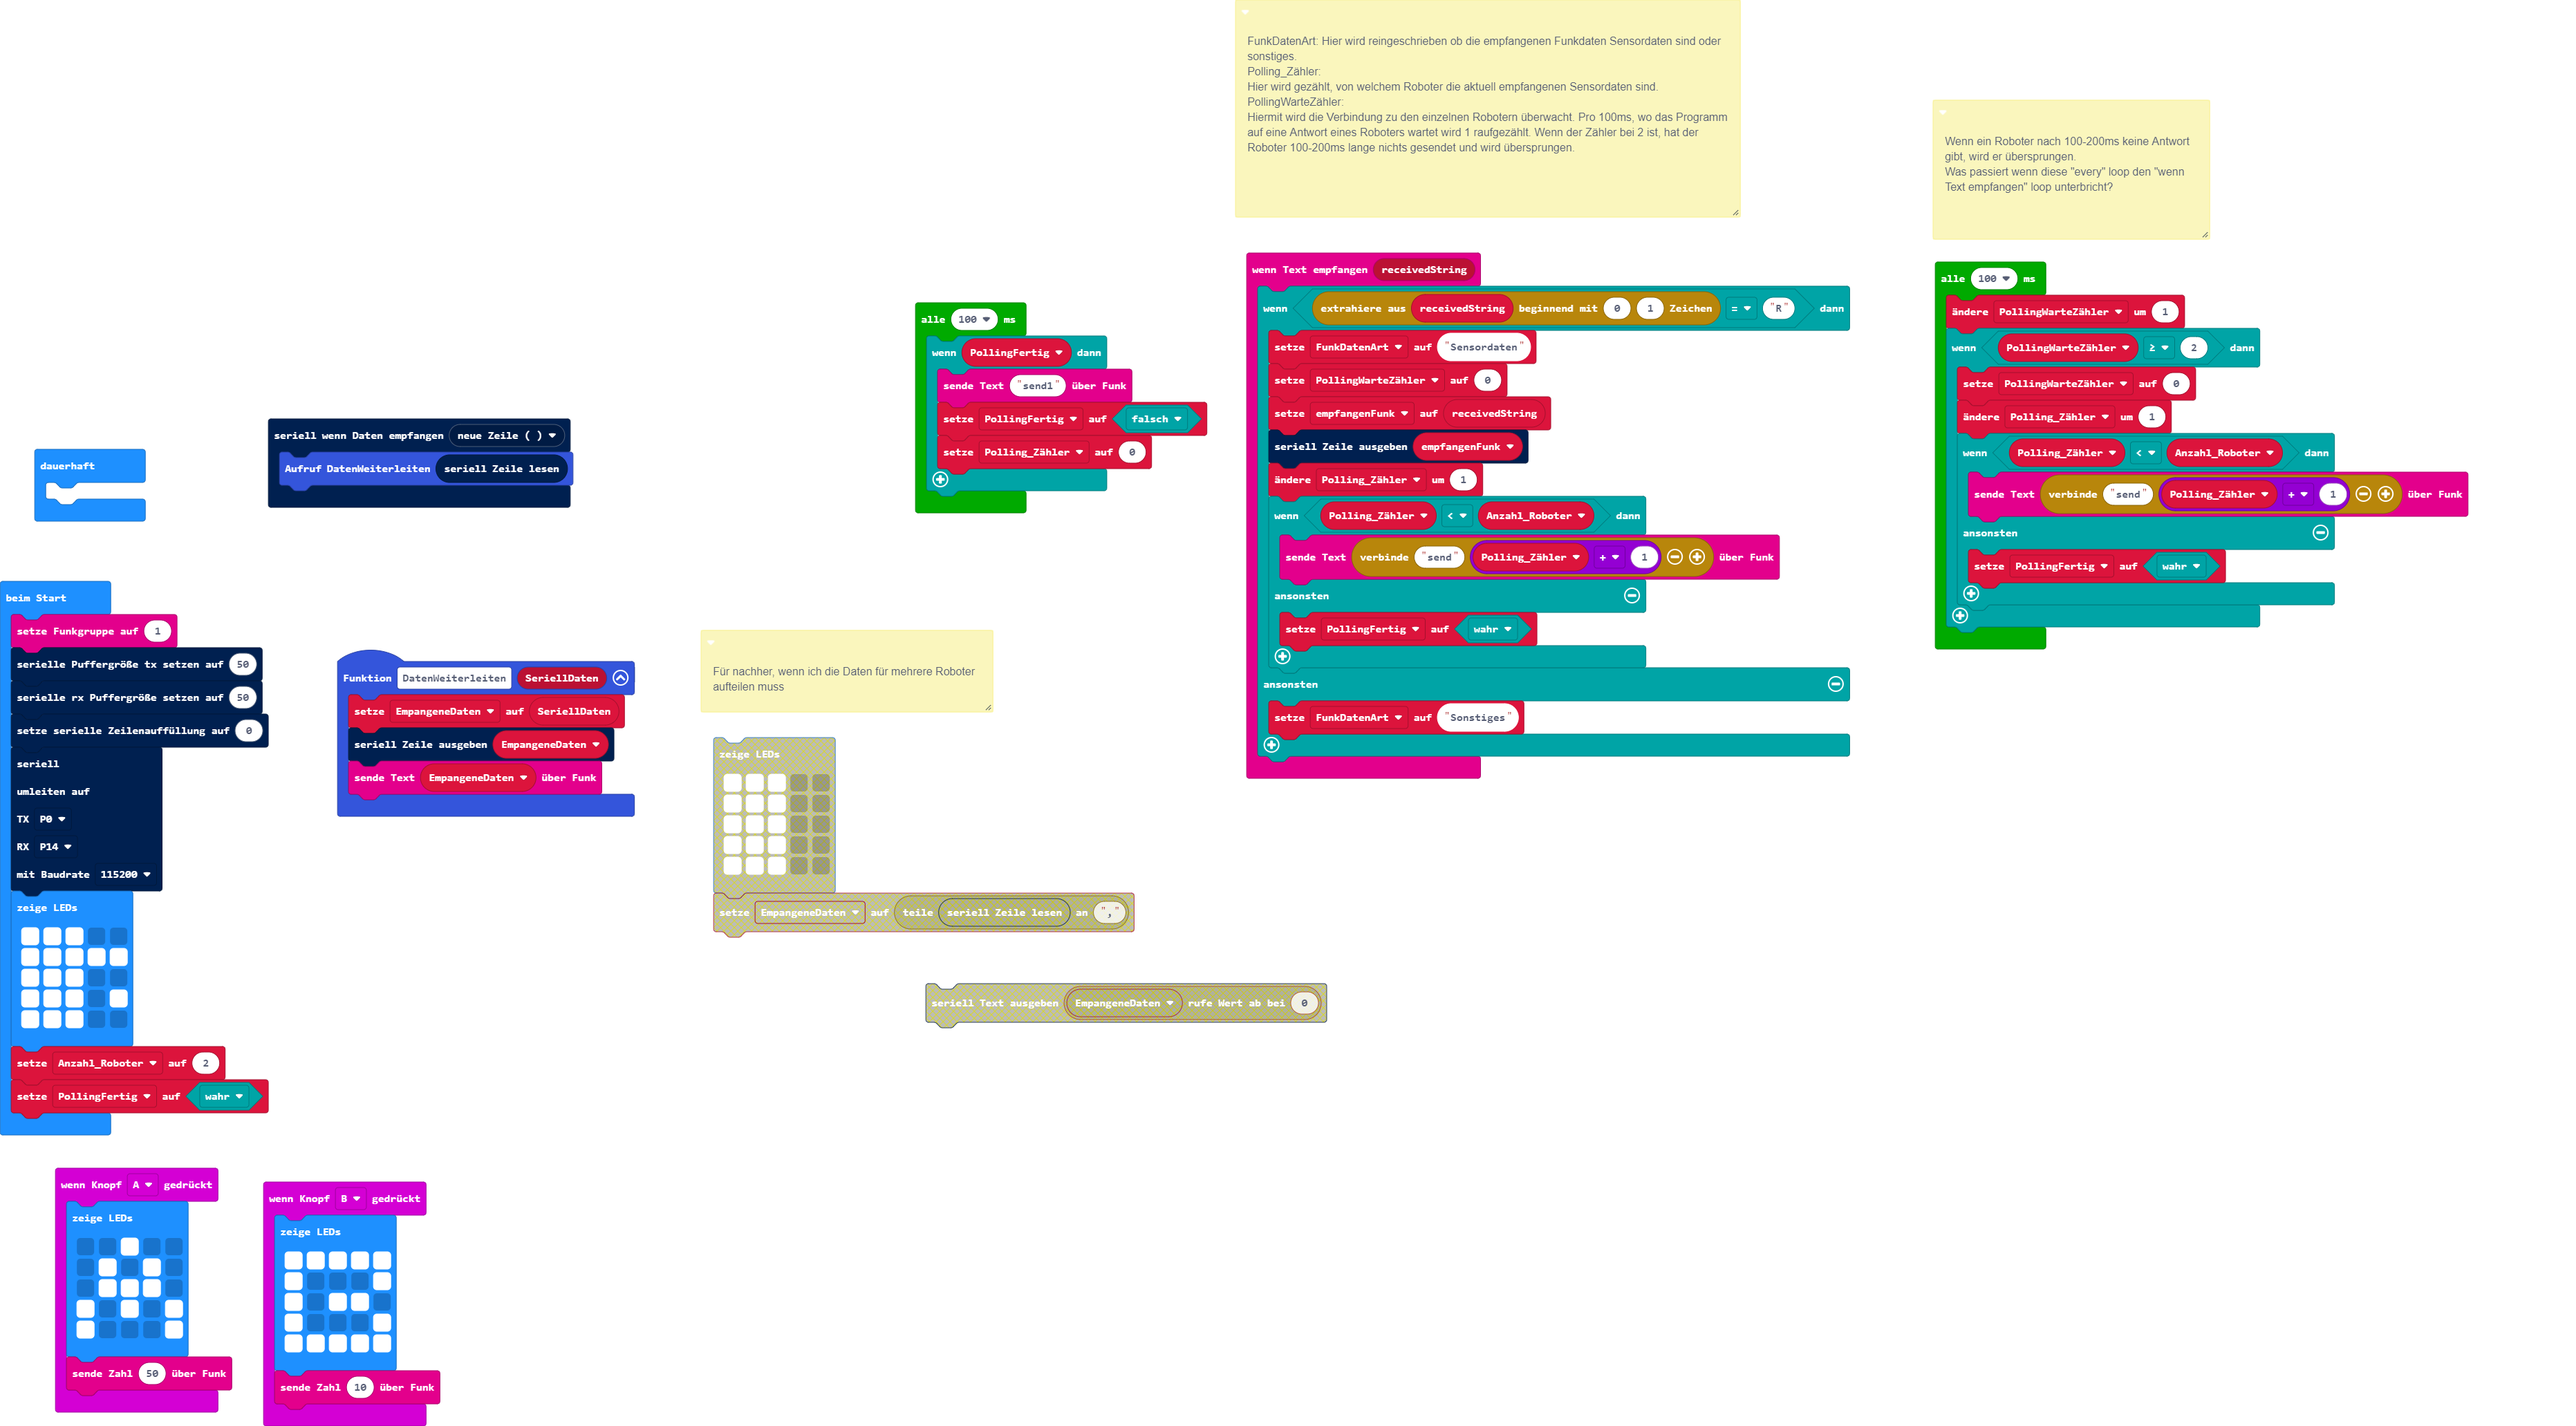
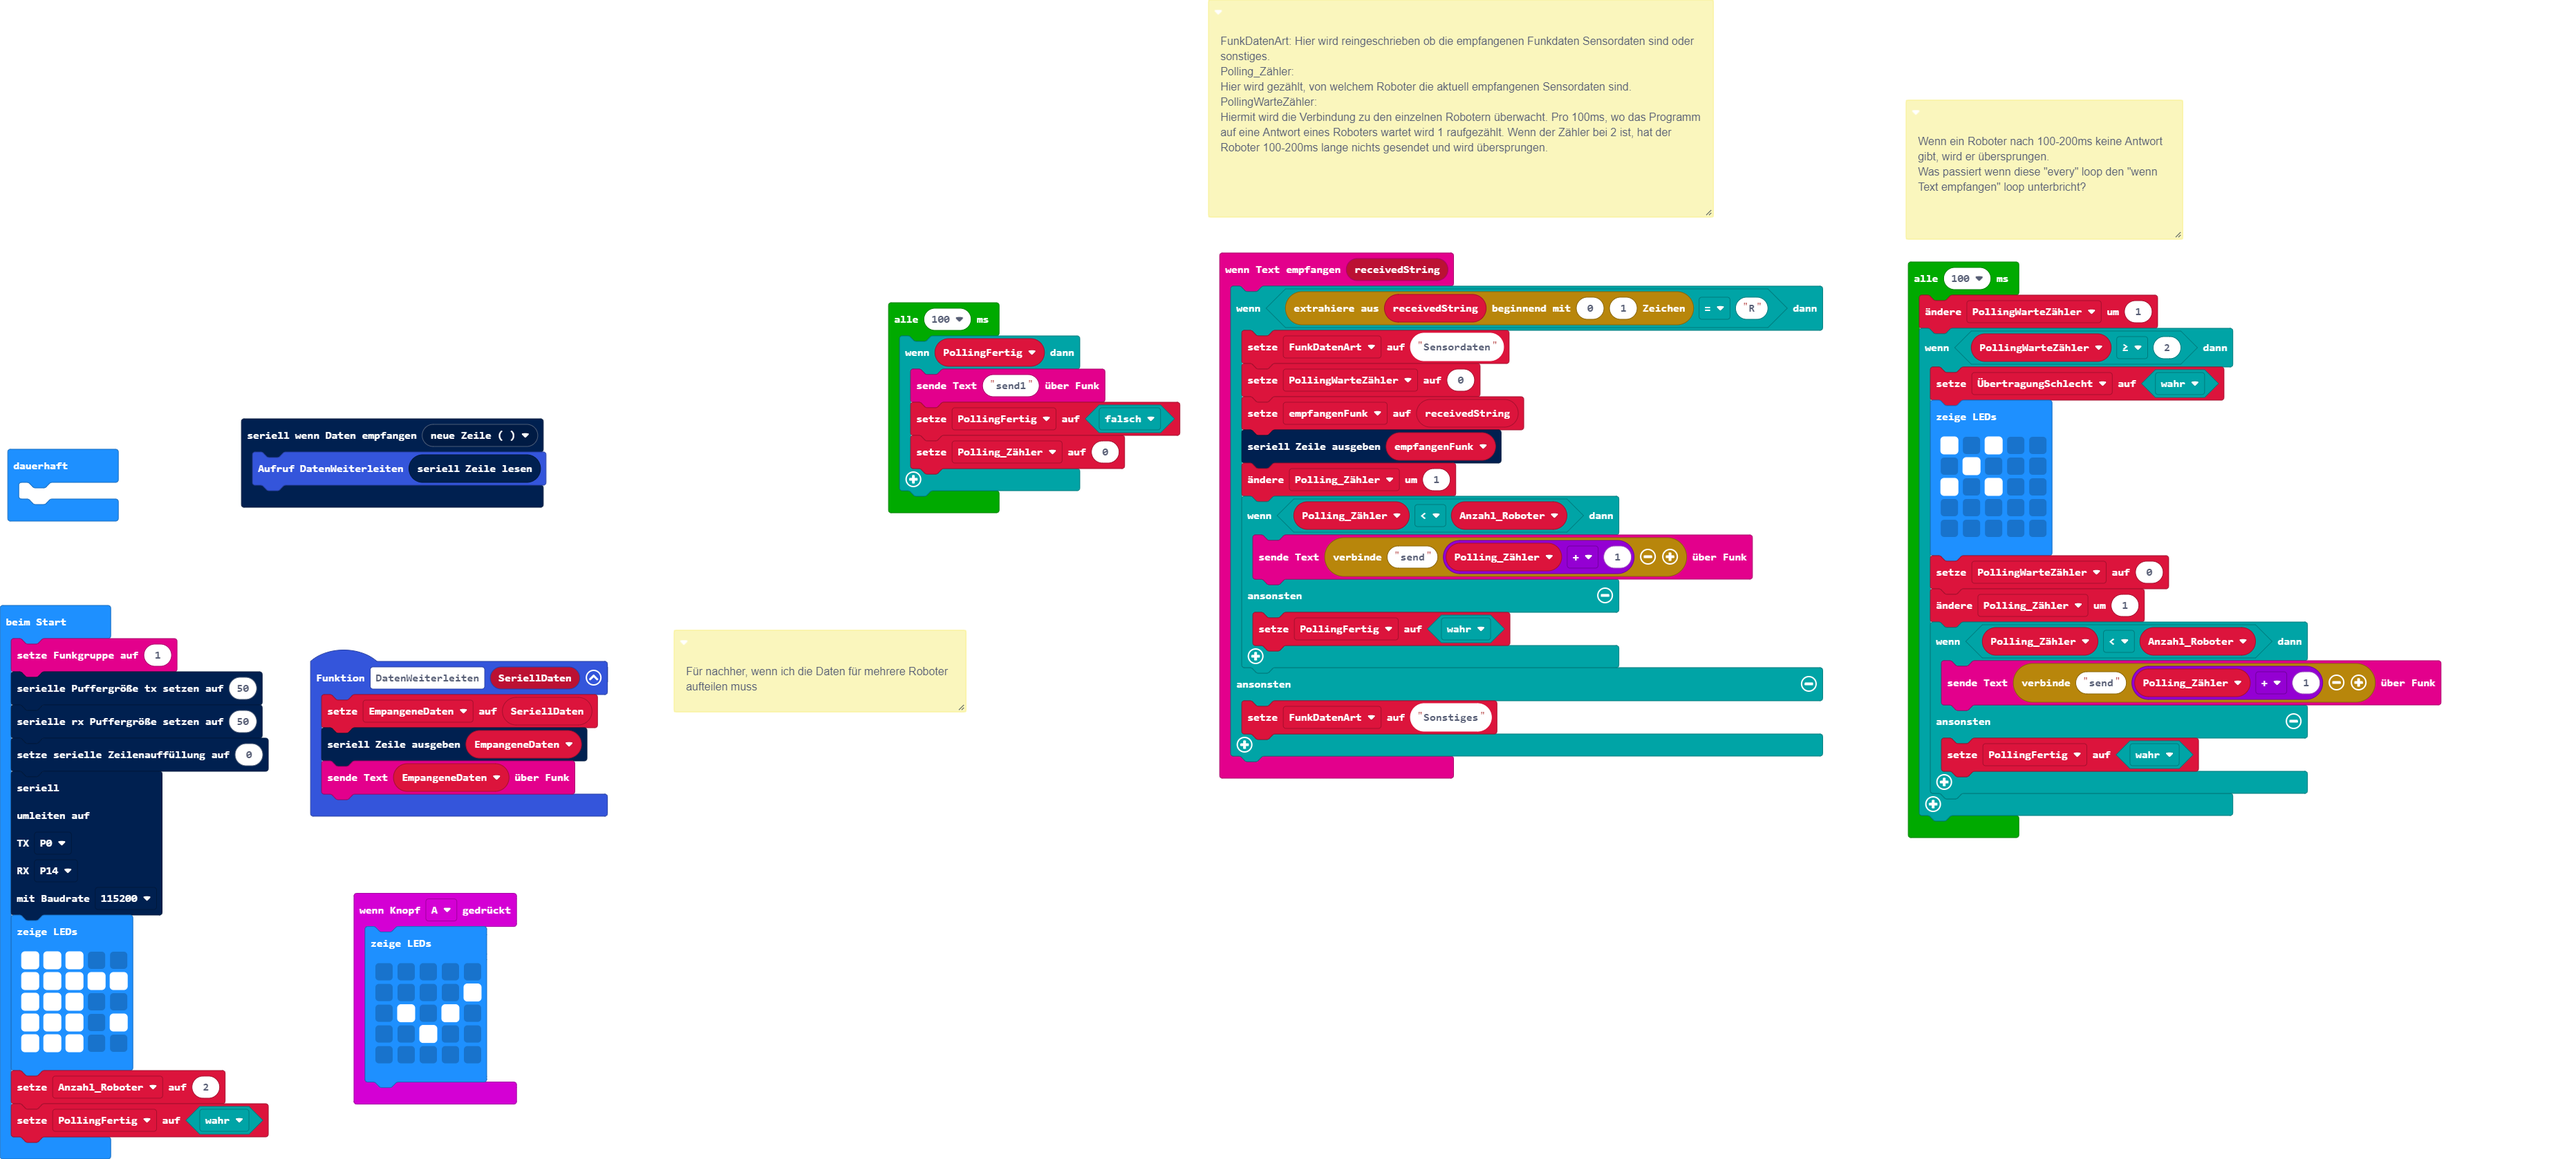
Aktualisiere main.blocks, main.ts

diff --git a/main.ts b/main.ts
@@ -24,13 +24,12 @@ function DatenWeiterleiten (SeriellDaten: string) {
 }
 input.onButtonPressed(Button.A, function () {
     basic.showLeds(`
-        . . # . .
+        . . . . .
+        . . . . #
         . # . # .
-        . # # # .
-        # . # . #
-        # . . . #
+        . . # . .
+        . . . . .
         `)
-    radio.sendNumber(50)
 })
 serial.onDataReceived(serial.delimiters(Delimiters.NewLine), function () {
     DatenWeiterleiten(serial.readLine())
@@ -51,16 +50,7 @@ radio.onReceivedString(function (receivedString) {
         FunkDatenArt = "Sonstiges"
     }
 })
-input.onButtonPressed(Button.B, function () {
-    basic.showLeds(`
-        # # # # #
-        # . . . #
-        # . # # .
-        # . . . #
-        # # # # #
-        `)
-    radio.sendNumber(10)
-})
+let ÜbertragungSchlecht = false
 let Polling_Zähler = 0
 let empfangenFunk = ""
 let PollingWarteZähler = 0
@@ -99,6 +89,14 @@ loops.everyInterval(100, function () {
 loops.everyInterval(100, function () {
     PollingWarteZähler += 1
     if (PollingWarteZähler >= 2) {
+        ÜbertragungSchlecht = true
+        basic.showLeds(`
+            # . # . .
+            . # . . .
+            # . # . .
+            . . . . .
+            . . . . .
+            `)
         PollingWarteZähler = 0
         Polling_Zähler += 1
         if (Polling_Zähler < Anzahl_Roboter) {
